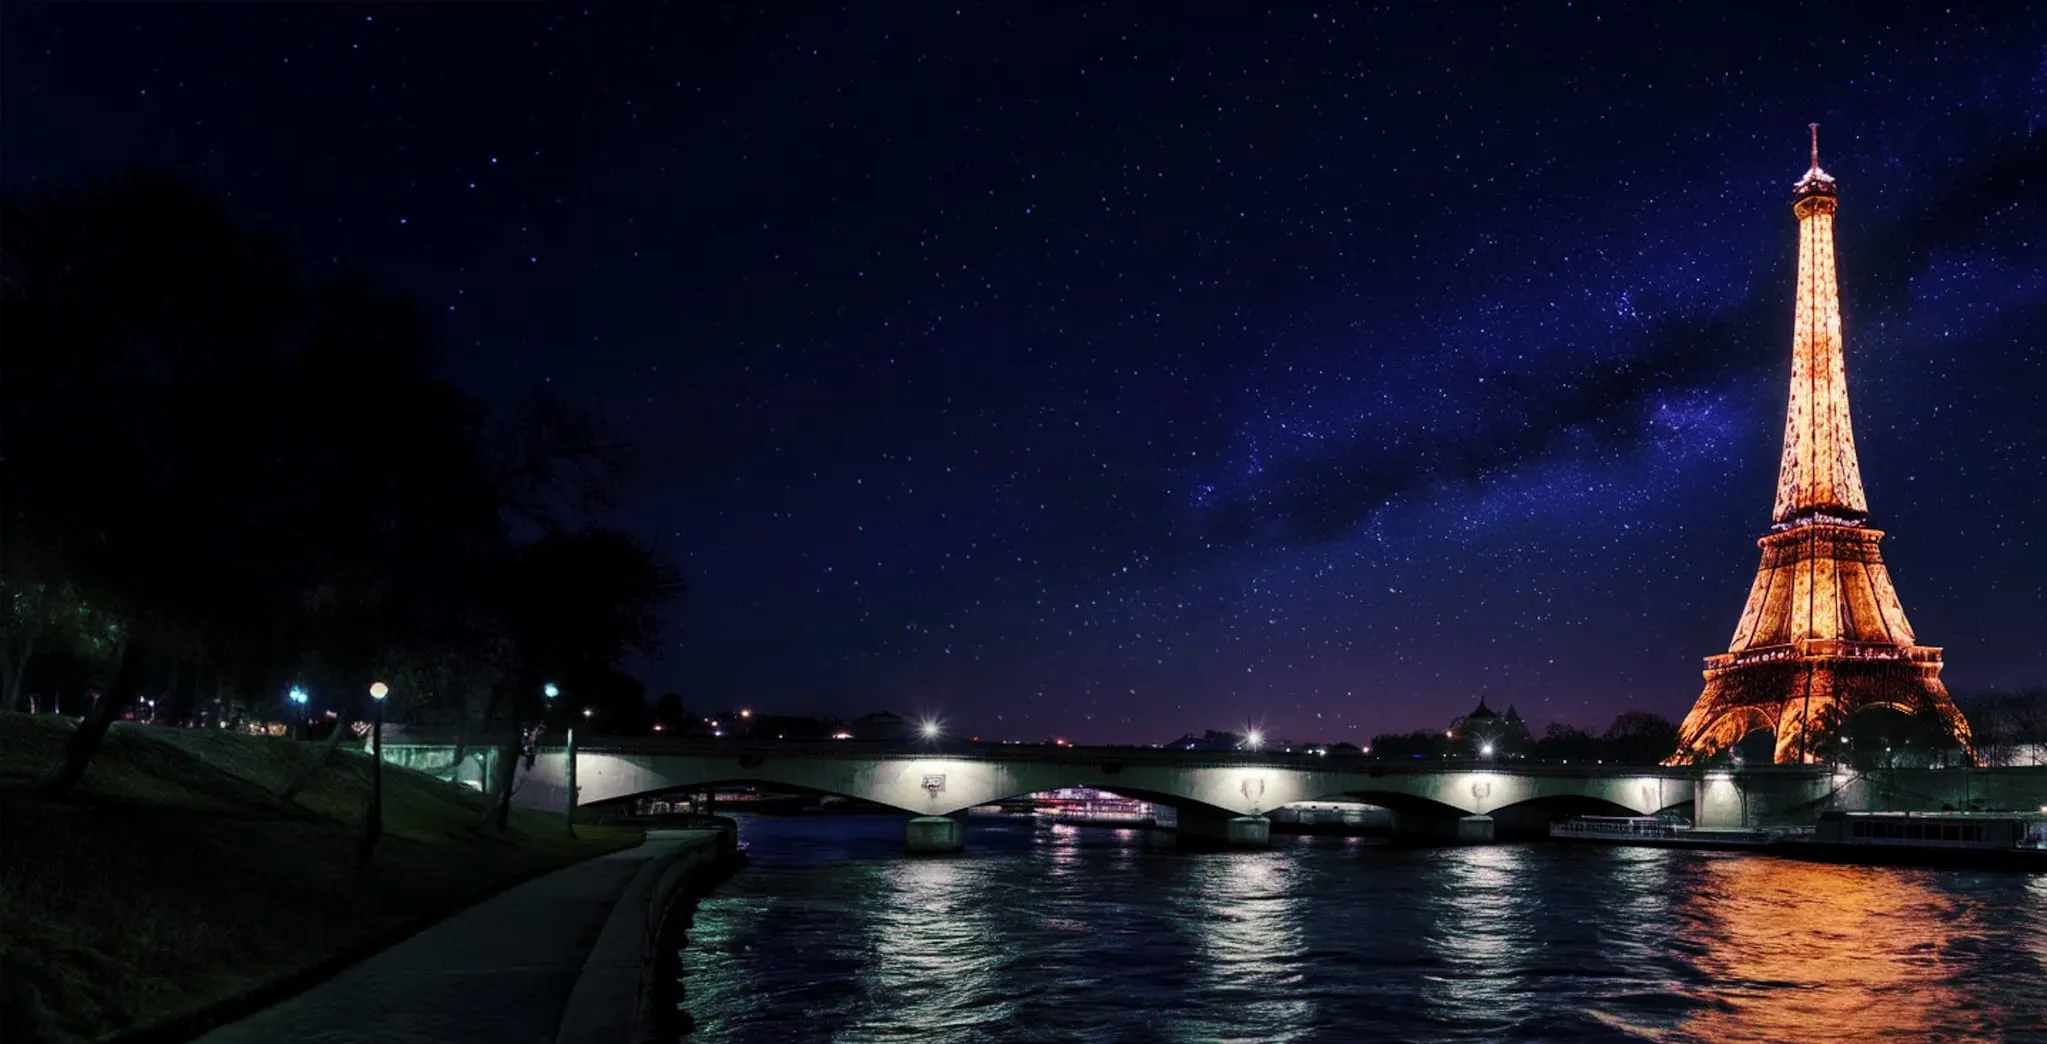
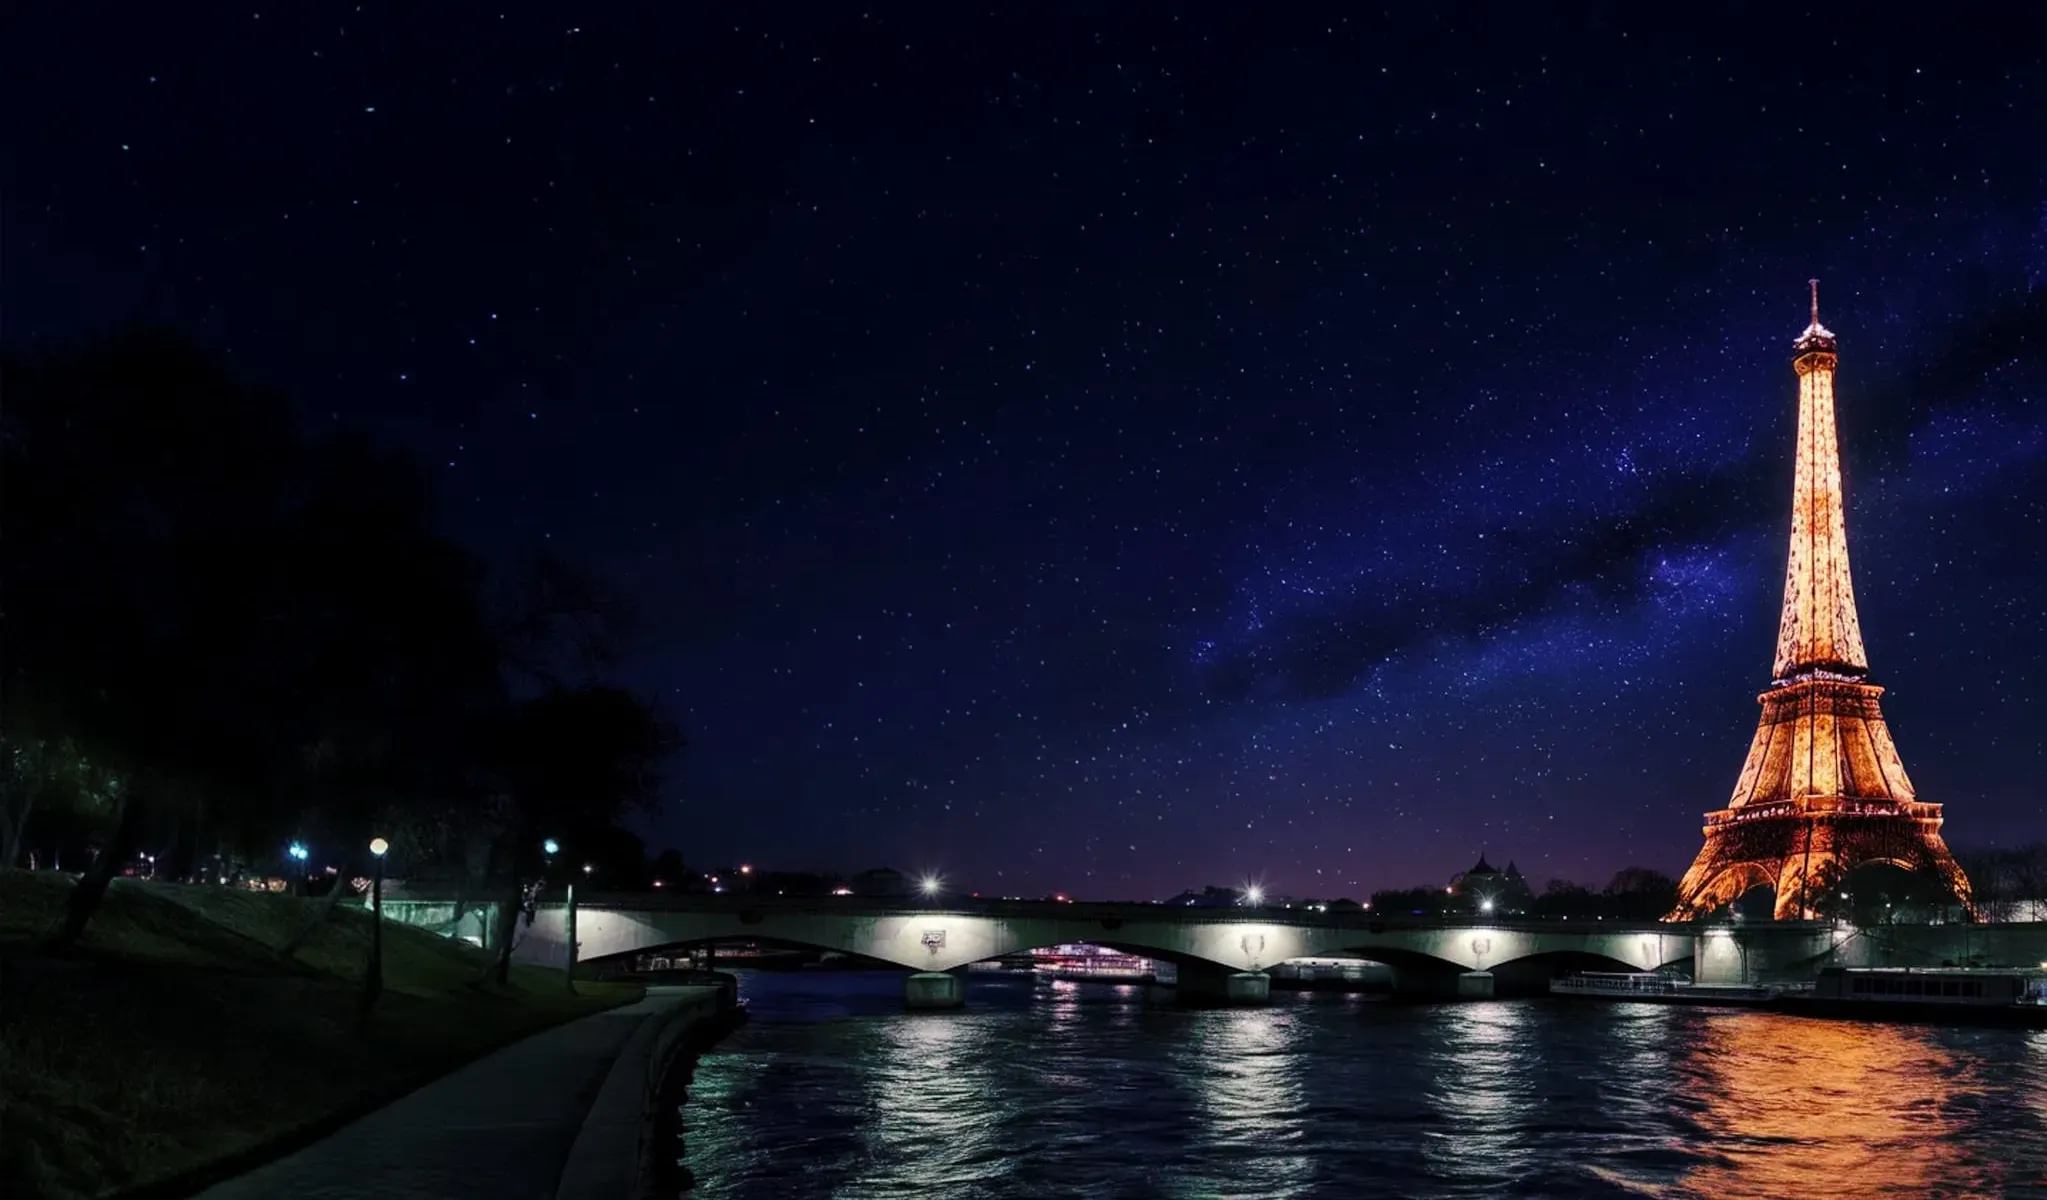
fix bg-scroll to bg-fixed + modif photo hero_cover

diff --git a/app/components/HomeSectionHero.vue b/app/components/HomeSectionHero.vue
@@ -1,9 +1,9 @@
 <template>
   <section
-    class="hide-scrollbar h-screen w-full overflow-y-scroll bg-cover bg-scroll bg-top bg-no-repeat md:h-section"
+    class="h-[110vh] w-full bg-fixed bg-center bg-no-repeat"
     style="background-image: url(&quot;/images/Paris_cover.webp&quot;)"
   >
-    <div class="flex h-[152vh] w-full flex-col gap-28 md:mx-auto md:w-[90%]">
+    <div class="flex h-[120vh] w-full flex-col gap-28 md:mx-auto md:w-[90%]">
       <h1
         class="mt-10 text-nowrap text-center font-herotitle text-[10vw] leading-none text-white md:text-left"
       >
@@ -29,13 +29,3 @@
     </div>
   </section>
 </template>
-
-<style scoped>
-.hide-scrollbar {
-  -ms-overflow-style: none; /* IE et Edge */
-  scrollbar-width: none; /* Firefox */
-}
-.hide-scrollbar::-webkit-scrollbar {
-  display: none; /* Chrome, Safari, Opera */
-}
-</style>

diff --git a/app/layouts/default.vue b/app/layouts/default.vue
@@ -3,9 +3,7 @@
 <template>
   <div>
     <AppHeader class="background hidden md:flex" />
-    <main
-      class="background overscroll-y-auto bg-scroll font-roboto md:pt-[120px]"
-    >
+    <main class="background font-roboto md:pt-[120px]">
       <slot />
     </main>
     <AppFooter class="background pt-10" />
